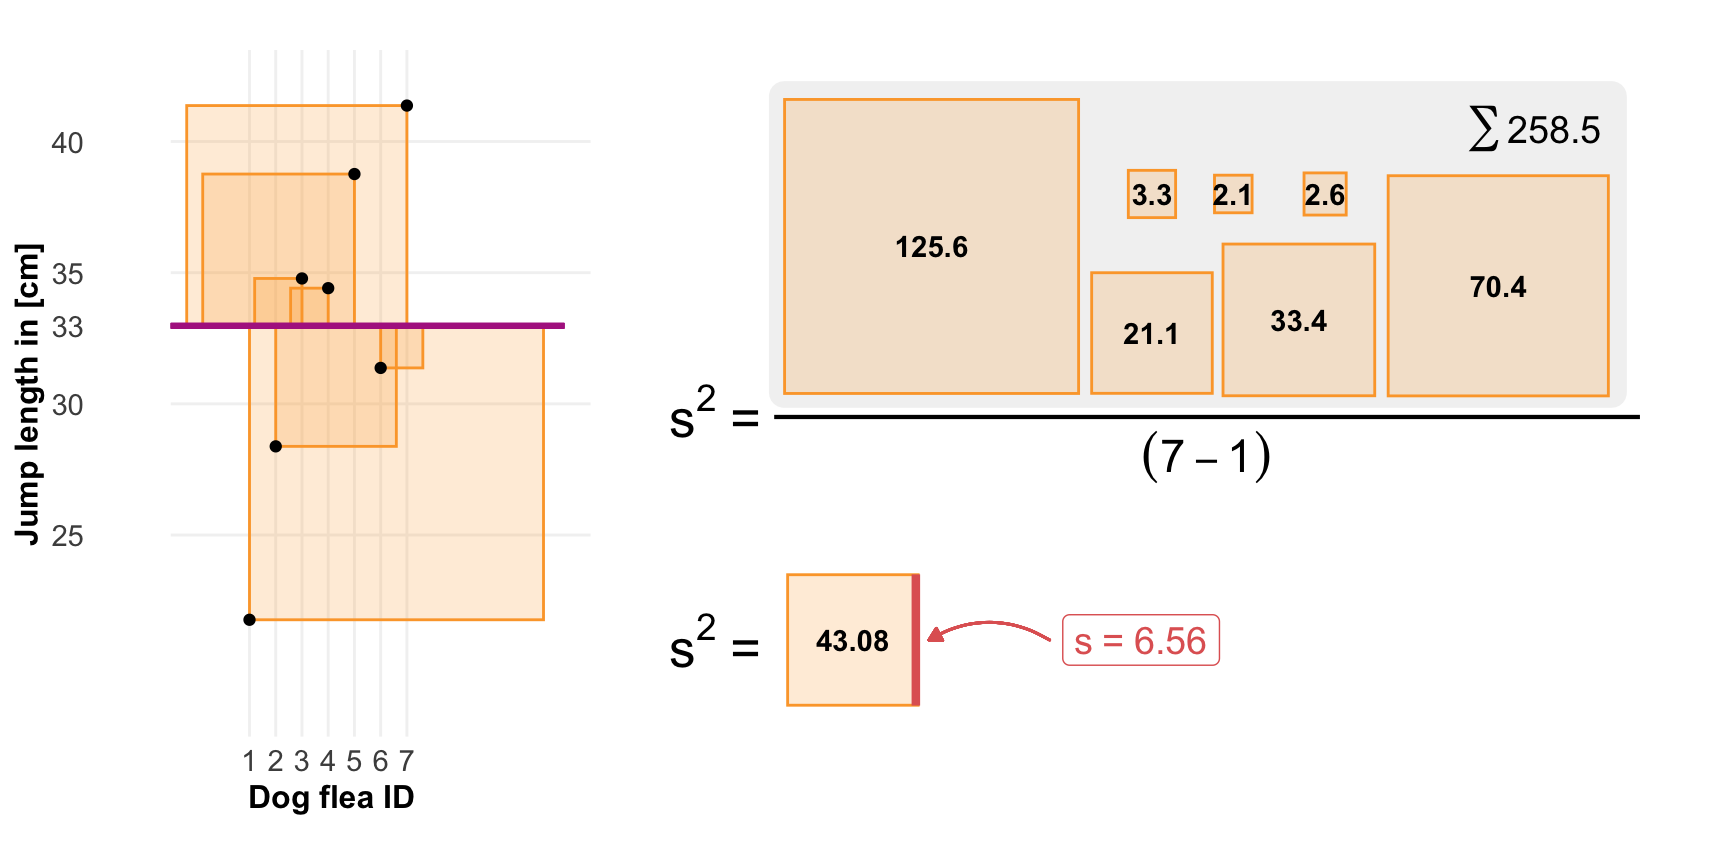
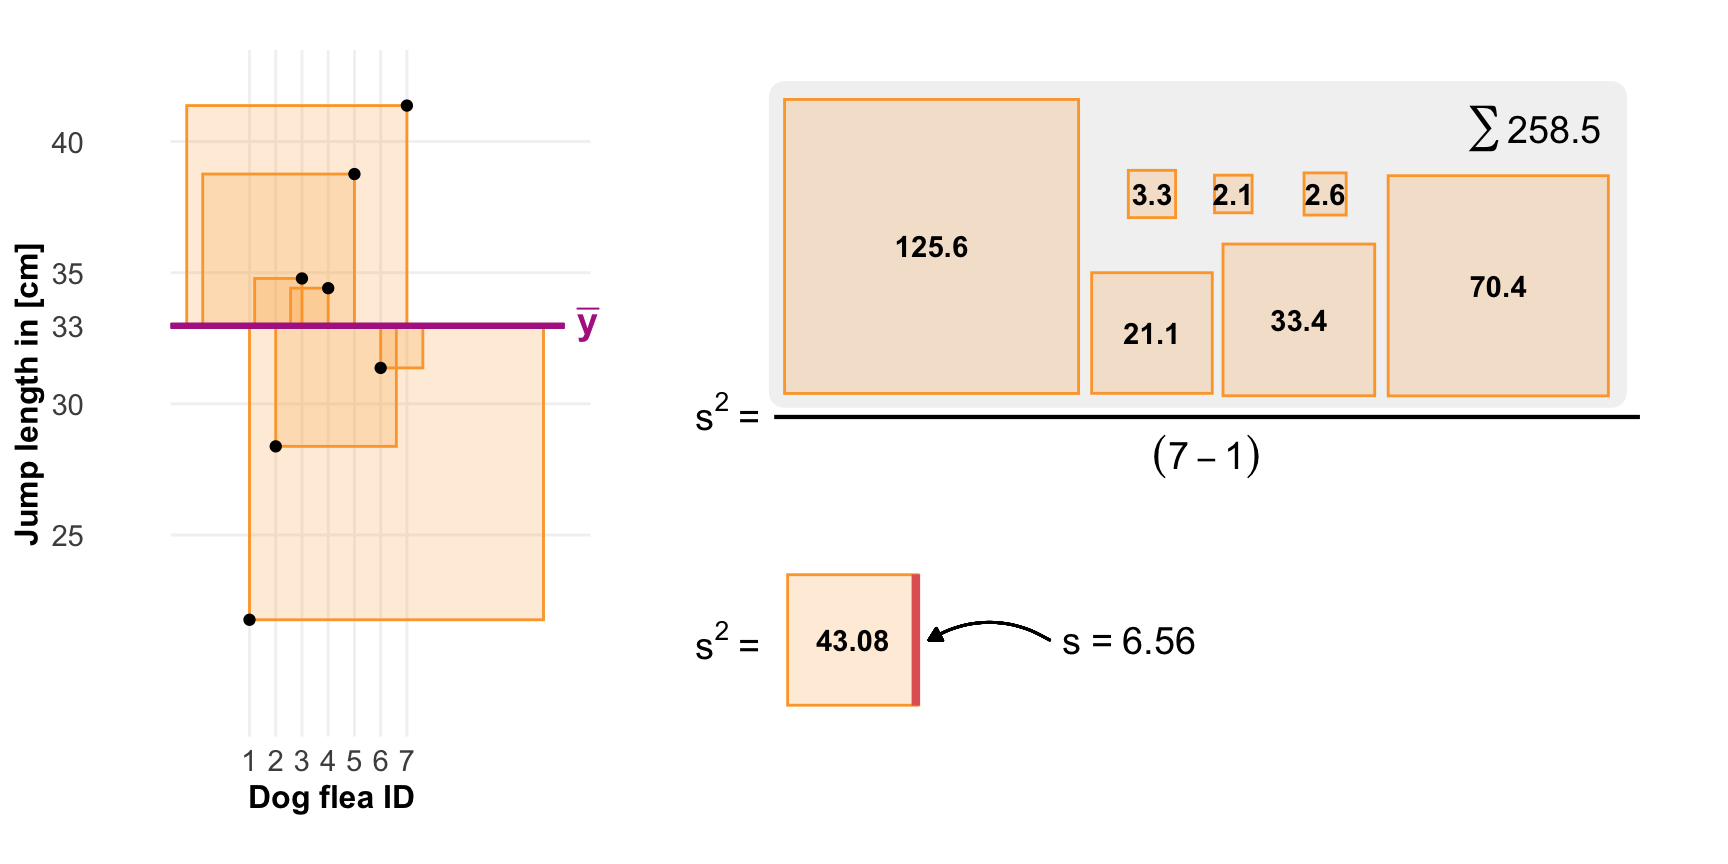
added

diff --git a/docs/chapter-41-eda.html b/docs/chapter-41-eda.html
@@ -376,7 +376,7 @@ pre > code.sourceCode > span > a:first-child::before { text-decoration: underlin
 </header>
 
 
-<p><em>Last modified on 10. December 2025 at 20:44:43</em></p>
+<p><em>Last modified on 11. December 2025 at 07:52:52</em></p>
 <blockquote class="blockquote">
 <p><em>“A quote.” — Dan Meyer</em></p>
 </blockquote>
@@ -1158,48 +1158,50 @@ Figure&nbsp;9.3: foo
 <span id="cb4-170"><a href="#cb4-170" aria-hidden="true" tabindex="-1"></a>           <span class="at">alpha =</span> <span class="fl">0.2</span>, <span class="at">color =</span> <span class="st">"#FCA636FF"</span>, <span class="at">linewidth =</span> <span class="fl">0.5</span>) <span class="sc">+</span></span>
 <span id="cb4-171"><a href="#cb4-171" aria-hidden="true" tabindex="-1"></a>  <span class="fu">annotate</span>(<span class="st">"text"</span>, <span class="at">x =</span> <span class="dv">24</span>, <span class="at">y =</span> <span class="dv">21</span>, <span class="at">label =</span> <span class="st">"43.08"</span>, <span class="at">fontface =</span> <span class="dv">2</span>) <span class="sc">+</span></span>
 <span id="cb4-172"><a href="#cb4-172" aria-hidden="true" tabindex="-1"></a>  <span class="fu">annotate</span>(<span class="st">"segment"</span>, <span class="at">x =</span> <span class="fl">26.4</span>, <span class="at">xend =</span> <span class="fl">26.4</span>, <span class="at">y =</span> <span class="fl">18.5</span>, <span class="at">yend =</span> <span class="fl">23.5</span>, <span class="at">size =</span> <span class="fl">1.5</span>, <span class="at">color =</span> <span class="st">"#E16462FF"</span>) <span class="sc">+</span></span>
-<span id="cb4-173"><a href="#cb4-173" aria-hidden="true" tabindex="-1"></a>  <span class="fu">annotate</span>(<span class="st">"label"</span>, <span class="at">x =</span> <span class="dv">32</span>, <span class="at">y =</span> <span class="dv">21</span>, <span class="at">hjust =</span> <span class="st">"left"</span>, <span class="at">label =</span> <span class="fu">expression</span>(s<span class="sc">~</span><span class="st">"="</span><span class="sc">~</span><span class="fl">6.56</span>),</span>
-<span id="cb4-174"><a href="#cb4-174" aria-hidden="true" tabindex="-1"></a>           <span class="at">size =</span> <span class="dv">5</span>, <span class="at">color =</span> <span class="st">"#E16462FF"</span>) <span class="sc">+</span> </span>
+<span id="cb4-173"><a href="#cb4-173" aria-hidden="true" tabindex="-1"></a>  <span class="fu">annotate</span>(<span class="st">"text"</span>, <span class="at">x =</span> <span class="dv">32</span>, <span class="at">y =</span> <span class="dv">21</span>, <span class="at">hjust =</span> <span class="st">"left"</span>, <span class="at">label =</span> <span class="fu">expression</span>(s<span class="sc">~</span><span class="st">"="</span><span class="sc">~</span><span class="fl">6.56</span>),</span>
+<span id="cb4-174"><a href="#cb4-174" aria-hidden="true" tabindex="-1"></a>           <span class="at">size =</span> <span class="dv">5</span>, <span class="at">color =</span> <span class="st">"black"</span>) <span class="sc">+</span> </span>
 <span id="cb4-175"><a href="#cb4-175" aria-hidden="true" tabindex="-1"></a>  <span class="fu">geom_curve</span>(<span class="fu">aes</span>(<span class="at">x =</span> <span class="fl">31.5</span>, <span class="at">y =</span> <span class="dv">21</span>, <span class="at">xend =</span> <span class="fl">26.9</span>, <span class="at">yend =</span> <span class="dv">21</span>),</span>
 <span id="cb4-176"><a href="#cb4-176" aria-hidden="true" tabindex="-1"></a>             <span class="at">arrow =</span> <span class="fu">arrow</span>(<span class="at">length =</span> <span class="fu">unit</span>(<span class="fl">0.02</span>, <span class="st">"npc"</span>), <span class="at">type =</span> <span class="st">"closed"</span>),</span>
-<span id="cb4-177"><a href="#cb4-177" aria-hidden="true" tabindex="-1"></a>             <span class="at">curvature =</span> <span class="fl">0.3</span>, <span class="at">color =</span> <span class="st">"#E16462FF"</span>, <span class="at">lineend =</span> <span class="st">"round"</span>) <span class="sc">+</span></span>
+<span id="cb4-177"><a href="#cb4-177" aria-hidden="true" tabindex="-1"></a>             <span class="at">curvature =</span> <span class="fl">0.3</span>, <span class="at">color =</span> <span class="st">"black"</span>, <span class="at">lineend =</span> <span class="st">"round"</span>) <span class="sc">+</span></span>
 <span id="cb4-178"><a href="#cb4-178" aria-hidden="true" tabindex="-1"></a>  <span class="fu">geom_segment</span>(<span class="at">x =</span> <span class="sc">-</span><span class="dv">2</span>, <span class="at">xend =</span> <span class="dv">13</span>, </span>
 <span id="cb4-179"><a href="#cb4-179" aria-hidden="true" tabindex="-1"></a>               <span class="at">y =</span> mean_dog_jump, <span class="at">yend =</span> mean_dog_jump, <span class="at">color =</span> <span class="st">"#B12A90FF"</span>, <span class="at">size =</span> <span class="dv">1</span>) <span class="sc">+</span></span>
-<span id="cb4-180"><a href="#cb4-180" aria-hidden="true" tabindex="-1"></a>  <span class="fu">geom_point</span>() <span class="sc">+</span></span>
-<span id="cb4-181"><a href="#cb4-181" aria-hidden="true" tabindex="-1"></a>  <span class="fu">scale_x_continuous</span>(<span class="at">breaks =</span> <span class="dv">1</span><span class="sc">:</span><span class="dv">7</span>, <span class="at">limits =</span> <span class="fu">c</span>(<span class="cn">NA</span>, <span class="dv">54</span>)) <span class="sc">+</span></span>
-<span id="cb4-182"><a href="#cb4-182" aria-hidden="true" tabindex="-1"></a>  <span class="fu">scale_y_continuous</span>(<span class="at">breaks =</span> <span class="fu">c</span>(<span class="dv">25</span>, <span class="dv">30</span>, mean_dog_jump, <span class="dv">35</span>, <span class="dv">40</span>),</span>
-<span id="cb4-183"><a href="#cb4-183" aria-hidden="true" tabindex="-1"></a>                     <span class="at">labels =</span> <span class="fu">c</span>(<span class="st">"25"</span>, <span class="st">"30"</span>, <span class="fu">round</span>(mean_dog_jump,<span class="dv">1</span>), <span class="st">"35"</span>, <span class="st">"40"</span>),</span>
-<span id="cb4-184"><a href="#cb4-184" aria-hidden="true" tabindex="-1"></a>                     <span class="at">limits =</span> <span class="fu">c</span>(<span class="cn">NA</span>, <span class="cn">NA</span>)) <span class="sc">+</span></span>
-<span id="cb4-185"><a href="#cb4-185" aria-hidden="true" tabindex="-1"></a>  <span class="fu">labs</span>(<span class="at">x =</span> <span class="fu">str_pad</span>(<span class="st">"Dog flea ID"</span>, <span class="dv">140</span>, <span class="st">"right"</span>), <span class="at">y =</span> <span class="st">"Jump length in [cm]"</span>) <span class="sc">+</span></span>
-<span id="cb4-186"><a href="#cb4-186" aria-hidden="true" tabindex="-1"></a>  <span class="fu">scale_color_viridis</span>(<span class="at">discrete =</span> <span class="cn">TRUE</span>, <span class="at">option =</span> <span class="st">"plasma"</span>, <span class="at">end =</span> <span class="fl">0.9</span>) <span class="sc">+</span></span>
-<span id="cb4-187"><a href="#cb4-187" aria-hidden="true" tabindex="-1"></a>  <span class="fu">annotate</span>(<span class="st">"segment"</span>, <span class="at">x =</span> <span class="dv">21</span>, <span class="at">xend =</span> <span class="dv">54</span>, <span class="at">y =</span> <span class="fl">29.5</span>, <span class="at">yend =</span> <span class="fl">29.5</span>, <span class="at">size =</span> <span class="fl">0.75</span>) <span class="sc">+</span></span>
-<span id="cb4-188"><a href="#cb4-188" aria-hidden="true" tabindex="-1"></a>  <span class="fu">annotate</span>(<span class="st">"text"</span>, <span class="at">x =</span> <span class="fl">20.5</span>, <span class="at">y =</span> <span class="fl">29.75</span>, <span class="at">hjust =</span> <span class="st">"right"</span>, <span class="at">label =</span> <span class="fu">expression</span>(s<span class="sc">^</span><span class="dv">2</span><span class="sc">~</span><span class="st">"="</span>),</span>
-<span id="cb4-189"><a href="#cb4-189" aria-hidden="true" tabindex="-1"></a>           <span class="at">size =</span> <span class="dv">7</span>) <span class="sc">+</span> </span>
-<span id="cb4-190"><a href="#cb4-190" aria-hidden="true" tabindex="-1"></a>  <span class="fu">annotate</span>(<span class="st">"text"</span>, <span class="at">x =</span> <span class="fl">37.5</span>, <span class="at">y =</span> <span class="dv">28</span>, <span class="at">hjust =</span> <span class="st">"center"</span>, <span class="at">label =</span> <span class="fu">expression</span>((<span class="dv">7-1</span>)),</span>
-<span id="cb4-191"><a href="#cb4-191" aria-hidden="true" tabindex="-1"></a>           <span class="at">size =</span> <span class="dv">6</span>) <span class="sc">+</span> </span>
-<span id="cb4-192"><a href="#cb4-192" aria-hidden="true" tabindex="-1"></a>  <span class="fu">annotate</span>(<span class="st">"text"</span>, <span class="at">x =</span> <span class="fl">20.5</span>, <span class="at">y =</span> <span class="dv">21</span>, <span class="at">hjust =</span> <span class="st">"right"</span>, <span class="at">label =</span> <span class="fu">expression</span>(s<span class="sc">^</span><span class="dv">2</span><span class="sc">~</span><span class="st">"="</span>),</span>
-<span id="cb4-193"><a href="#cb4-193" aria-hidden="true" tabindex="-1"></a>           <span class="at">size =</span> <span class="dv">7</span>) <span class="sc">+</span> </span>
-<span id="cb4-194"><a href="#cb4-194" aria-hidden="true" tabindex="-1"></a>  <span class="fu">theme</span>(<span class="at">panel.grid =</span> <span class="fu">element_blank</span>())</span>
-<span id="cb4-195"><a href="#cb4-195" aria-hidden="true" tabindex="-1"></a><span class="in">```</span></span>
-<span id="cb4-196"><a href="#cb4-196" aria-hidden="true" tabindex="-1"></a></span>
-<span id="cb4-197"><a href="#cb4-197" aria-hidden="true" tabindex="-1"></a></span>
-<span id="cb4-198"><a href="#cb4-198" aria-hidden="true" tabindex="-1"></a><span class="fu">## Alternatives </span></span>
+<span id="cb4-180"><a href="#cb4-180" aria-hidden="true" tabindex="-1"></a>  <span class="fu">annotate</span>(<span class="st">"text"</span>, <span class="at">x =</span> <span class="fl">13.5</span>, <span class="at">y =</span> <span class="dv">33</span>, <span class="at">hjust =</span> <span class="st">"left"</span>, <span class="at">label =</span> <span class="fu">expression</span>(<span class="fu">bold</span>(<span class="fu">bar</span>(y))),</span>
+<span id="cb4-181"><a href="#cb4-181" aria-hidden="true" tabindex="-1"></a>           <span class="at">size =</span> <span class="dv">5</span>, <span class="at">color =</span> <span class="st">"#B12A90FF"</span>) <span class="sc">+</span> </span>
+<span id="cb4-182"><a href="#cb4-182" aria-hidden="true" tabindex="-1"></a>  <span class="fu">geom_point</span>() <span class="sc">+</span></span>
+<span id="cb4-183"><a href="#cb4-183" aria-hidden="true" tabindex="-1"></a>  <span class="fu">scale_x_continuous</span>(<span class="at">breaks =</span> <span class="dv">1</span><span class="sc">:</span><span class="dv">7</span>, <span class="at">limits =</span> <span class="fu">c</span>(<span class="cn">NA</span>, <span class="dv">54</span>)) <span class="sc">+</span></span>
+<span id="cb4-184"><a href="#cb4-184" aria-hidden="true" tabindex="-1"></a>  <span class="fu">scale_y_continuous</span>(<span class="at">breaks =</span> <span class="fu">c</span>(<span class="dv">25</span>, <span class="dv">30</span>, mean_dog_jump, <span class="dv">35</span>, <span class="dv">40</span>),</span>
+<span id="cb4-185"><a href="#cb4-185" aria-hidden="true" tabindex="-1"></a>                     <span class="at">labels =</span> <span class="fu">c</span>(<span class="st">"25"</span>, <span class="st">"30"</span>, <span class="fu">round</span>(mean_dog_jump,<span class="dv">1</span>), <span class="st">"35"</span>, <span class="st">"40"</span>),</span>
+<span id="cb4-186"><a href="#cb4-186" aria-hidden="true" tabindex="-1"></a>                     <span class="at">limits =</span> <span class="fu">c</span>(<span class="cn">NA</span>, <span class="cn">NA</span>)) <span class="sc">+</span></span>
+<span id="cb4-187"><a href="#cb4-187" aria-hidden="true" tabindex="-1"></a>  <span class="fu">labs</span>(<span class="at">x =</span> <span class="fu">str_pad</span>(<span class="st">"Dog flea ID"</span>, <span class="dv">140</span>, <span class="st">"right"</span>), <span class="at">y =</span> <span class="st">"Jump length in [cm]"</span>) <span class="sc">+</span></span>
+<span id="cb4-188"><a href="#cb4-188" aria-hidden="true" tabindex="-1"></a>  <span class="fu">scale_color_viridis</span>(<span class="at">discrete =</span> <span class="cn">TRUE</span>, <span class="at">option =</span> <span class="st">"plasma"</span>, <span class="at">end =</span> <span class="fl">0.9</span>) <span class="sc">+</span></span>
+<span id="cb4-189"><a href="#cb4-189" aria-hidden="true" tabindex="-1"></a>  <span class="fu">annotate</span>(<span class="st">"segment"</span>, <span class="at">x =</span> <span class="dv">21</span>, <span class="at">xend =</span> <span class="dv">54</span>, <span class="at">y =</span> <span class="fl">29.5</span>, <span class="at">yend =</span> <span class="fl">29.5</span>, <span class="at">size =</span> <span class="fl">0.75</span>) <span class="sc">+</span></span>
+<span id="cb4-190"><a href="#cb4-190" aria-hidden="true" tabindex="-1"></a>  <span class="fu">annotate</span>(<span class="st">"text"</span>, <span class="at">x =</span> <span class="fl">20.5</span>, <span class="at">y =</span> <span class="fl">29.75</span>, <span class="at">hjust =</span> <span class="st">"right"</span>, <span class="at">label =</span> <span class="fu">expression</span>(s<span class="sc">^</span><span class="dv">2</span><span class="sc">~</span><span class="st">"="</span>),</span>
+<span id="cb4-191"><a href="#cb4-191" aria-hidden="true" tabindex="-1"></a>           <span class="at">size =</span> <span class="dv">5</span>) <span class="sc">+</span> </span>
+<span id="cb4-192"><a href="#cb4-192" aria-hidden="true" tabindex="-1"></a>  <span class="fu">annotate</span>(<span class="st">"text"</span>, <span class="at">x =</span> <span class="fl">37.5</span>, <span class="at">y =</span> <span class="dv">28</span>, <span class="at">hjust =</span> <span class="st">"center"</span>, <span class="at">label =</span> <span class="fu">expression</span>((<span class="dv">7-1</span>)),</span>
+<span id="cb4-193"><a href="#cb4-193" aria-hidden="true" tabindex="-1"></a>           <span class="at">size =</span> <span class="dv">5</span>) <span class="sc">+</span> </span>
+<span id="cb4-194"><a href="#cb4-194" aria-hidden="true" tabindex="-1"></a>  <span class="fu">annotate</span>(<span class="st">"text"</span>, <span class="at">x =</span> <span class="fl">20.5</span>, <span class="at">y =</span> <span class="dv">21</span>, <span class="at">hjust =</span> <span class="st">"right"</span>, <span class="at">label =</span> <span class="fu">expression</span>(s<span class="sc">^</span><span class="dv">2</span><span class="sc">~</span><span class="st">"="</span>),</span>
+<span id="cb4-195"><a href="#cb4-195" aria-hidden="true" tabindex="-1"></a>           <span class="at">size =</span> <span class="dv">5</span>) <span class="sc">+</span> </span>
+<span id="cb4-196"><a href="#cb4-196" aria-hidden="true" tabindex="-1"></a>  <span class="fu">theme</span>(<span class="at">panel.grid =</span> <span class="fu">element_blank</span>())</span>
+<span id="cb4-197"><a href="#cb4-197" aria-hidden="true" tabindex="-1"></a><span class="in">```</span></span>
+<span id="cb4-198"><a href="#cb4-198" aria-hidden="true" tabindex="-1"></a></span>
 <span id="cb4-199"><a href="#cb4-199" aria-hidden="true" tabindex="-1"></a></span>
-<span id="cb4-200"><a href="#cb4-200" aria-hidden="true" tabindex="-1"></a>Further tutorials and R packages on XXX</span>
+<span id="cb4-200"><a href="#cb4-200" aria-hidden="true" tabindex="-1"></a><span class="fu">## Alternatives </span></span>
 <span id="cb4-201"><a href="#cb4-201" aria-hidden="true" tabindex="-1"></a></span>
-<span id="cb4-202"><a href="#cb4-202" aria-hidden="true" tabindex="-1"></a><span class="fu">## Glossary</span></span>
+<span id="cb4-202"><a href="#cb4-202" aria-hidden="true" tabindex="-1"></a>Further tutorials and R packages on XXX</span>
 <span id="cb4-203"><a href="#cb4-203" aria-hidden="true" tabindex="-1"></a></span>
-<span id="cb4-204"><a href="#cb4-204" aria-hidden="true" tabindex="-1"></a>term</span>
+<span id="cb4-204"><a href="#cb4-204" aria-hidden="true" tabindex="-1"></a><span class="fu">## Glossary</span></span>
 <span id="cb4-205"><a href="#cb4-205" aria-hidden="true" tabindex="-1"></a></span>
-<span id="cb4-206"><a href="#cb4-206" aria-hidden="true" tabindex="-1"></a>: what does it mean.</span>
+<span id="cb4-206"><a href="#cb4-206" aria-hidden="true" tabindex="-1"></a>term</span>
 <span id="cb4-207"><a href="#cb4-207" aria-hidden="true" tabindex="-1"></a></span>
-<span id="cb4-208"><a href="#cb4-208" aria-hidden="true" tabindex="-1"></a><span class="fu">## The meaning of "Models of Reality" in this chapter.</span></span>
+<span id="cb4-208"><a href="#cb4-208" aria-hidden="true" tabindex="-1"></a>: what does it mean.</span>
 <span id="cb4-209"><a href="#cb4-209" aria-hidden="true" tabindex="-1"></a></span>
-<span id="cb4-210"><a href="#cb4-210" aria-hidden="true" tabindex="-1"></a><span class="ss">- </span>itemize with max. 5-6 words</span>
+<span id="cb4-210"><a href="#cb4-210" aria-hidden="true" tabindex="-1"></a><span class="fu">## The meaning of "Models of Reality" in this chapter.</span></span>
 <span id="cb4-211"><a href="#cb4-211" aria-hidden="true" tabindex="-1"></a></span>
-<span id="cb4-212"><a href="#cb4-212" aria-hidden="true" tabindex="-1"></a><span class="fu">## Summary</span></span>
+<span id="cb4-212"><a href="#cb4-212" aria-hidden="true" tabindex="-1"></a><span class="ss">- </span>itemize with max. 5-6 words</span>
 <span id="cb4-213"><a href="#cb4-213" aria-hidden="true" tabindex="-1"></a></span>
-<span id="cb4-214"><a href="#cb4-214" aria-hidden="true" tabindex="-1"></a><span class="fu">## References {.unnumbered}</span></span>
+<span id="cb4-214"><a href="#cb4-214" aria-hidden="true" tabindex="-1"></a><span class="fu">## Summary</span></span>
+<span id="cb4-215"><a href="#cb4-215" aria-hidden="true" tabindex="-1"></a></span>
+<span id="cb4-216"><a href="#cb4-216" aria-hidden="true" tabindex="-1"></a><span class="fu">## References {.unnumbered}</span></span>
 </code></pre></div><button title="Copy to Clipboard" class="code-copy-button" data-in-quarto-modal=""><i class="bi"></i></button></div>
 </div></div></div></div></div>
 </div> <!-- /content -->
